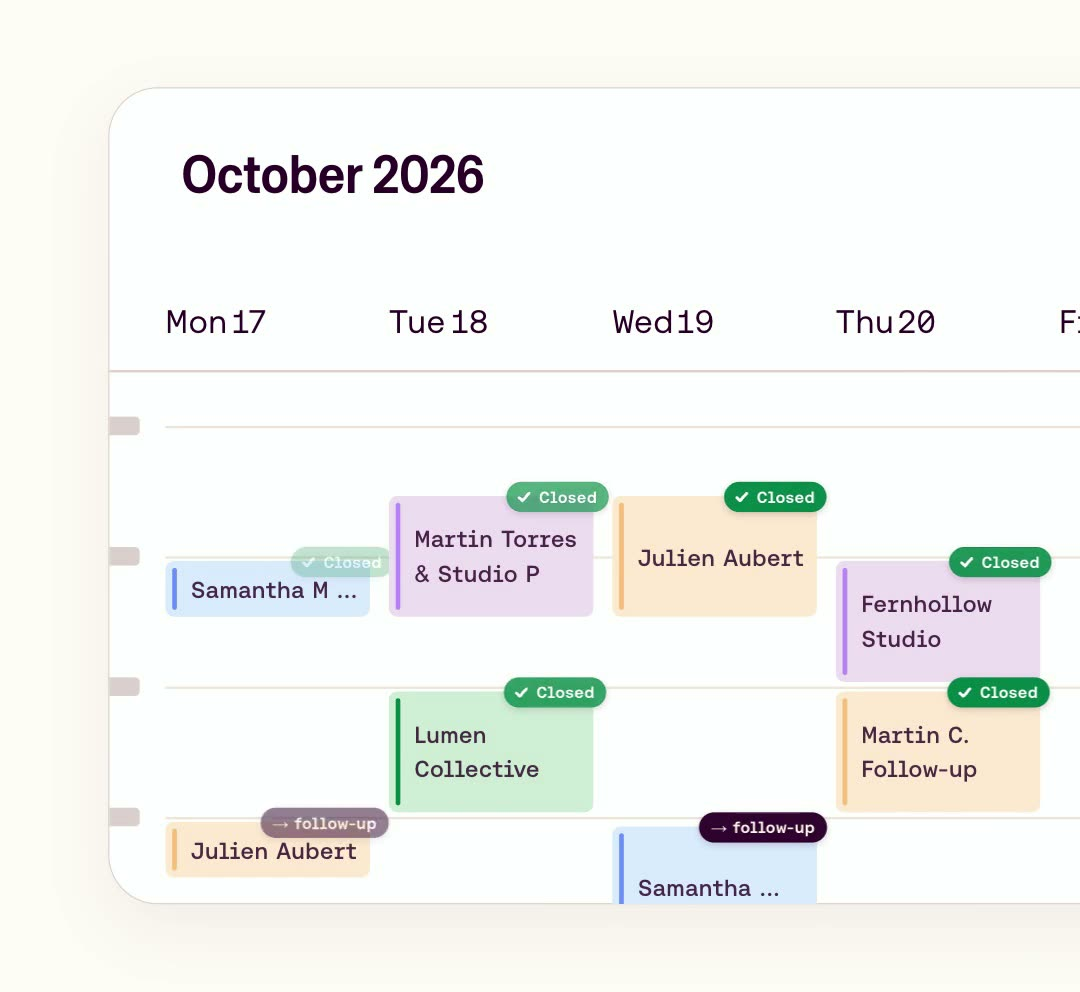
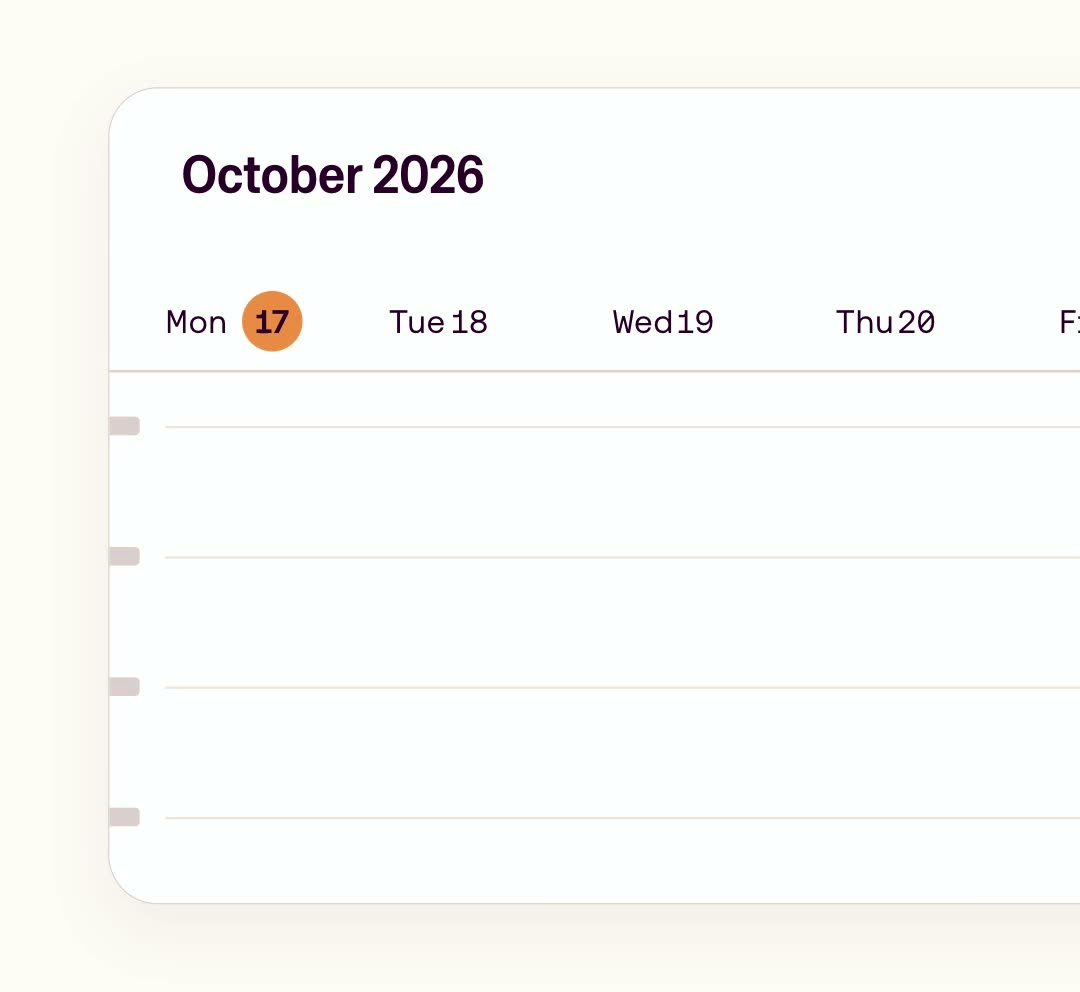
feat(steps): the three animations play once when their card comes into view, then hold their last frame
Founder: 'les animations démarrent quand l'écran est focalisé sur l'animation … l'image statique
demeure à la fin' — the brain, the Agents view, the filled calendar. No loop: the observer (60 %
visible) starts playback, pauses it off-screen before the end, never restarts it after the end.
Posters are the first frames; prefers-reduced-motion shows the final still. No autoplay attribute,
no play glyph, first-gesture retry kept for iOS Low Power Mode.

Changed region(s): [[0.1528, 0.4688, 0.9778, 0.9375], [0.2139, 0.2812, 0.3056, 0.375]]

diff --git a/components/sections/landing-v3/LpLoopVideo.tsx b/components/sections/landing-v3/LpLoopVideo.tsx
@@ -3,43 +3,40 @@
 import { useEffect, useRef } from "react";
 
 /**
- * v3 port of components/sections/landing/LoopVideo.tsx (lp scope — don't import
- * the v2 one, different css namespace). Same three behaviors:
+ * Step animation: plays ONCE, when its card comes into view, and then holds
+ * its last frame as the still (founder 2026-09-02: "les animations démarrent
+ * quand l'écran est focalisé sur l'animation … l'image statique demeure à la
+ * fin" — the brain, the Agents view, the filled calendar). Scrolled away
+ * before the end → paused, resumed on return; once ended it never restarts.
+ *
  * - raw-HTML tag so the `muted` attribute survives SSR (facebook/react#10389);
- * - IntersectionObserver plays it in view and pauses it offscreen (three
- *   1080x1080 loops decoding for the whole visit is real battery on mobile);
- * - prefers-reduced-motion holds it on a still, and a flip of the preference
- *   mid-visit is honored.
+ * - IntersectionObserver at 60 % visibility decides "focused on it";
+ * - prefers-reduced-motion shows the final still (seek to the end, no motion),
+ *   and a flip of the preference mid-visit is honored.
  * The host div is the media card itself (className comes from the caller);
  * the inner video is absolutely positioned so it can never change the card box.
  *
- * Never a play button (founder 2026-09-02, iPhone: "pourquoi les motions ont
- * un bouton play?? pas bien"). In Low Power Mode (and under aggressive
- * thermal mitigation) iOS denies every play() outside a user gesture AND
- * paints its own start-playback glyph — but only on a video carrying the
- * `autoplay` content attribute (HTMLMediaElement::shouldForceControlsDisplay;
- * the ::-webkit-media-controls CSS hides are a no-op on modern iOS). So:
- * no `autoplay` attribute (the observer starts playback anyway), a poster —
- * a "full" frame of the loop, the still the card shows whenever it is not
- * playing — and one retry of play() on the first gesture anywhere, for
- * every denied loop at once: WebKit lifts the restriction per element for
- * good when play() runs inside that gesture, so the observer keeps working
- * afterwards. Playback starts from the poster's own instant, so the still
- * and the motion are one continuous frame.
+ * Never a play button (founder 2026-09-02, iPhone). In Low Power Mode (and
+ * under aggressive thermal mitigation) iOS denies every play() outside a user
+ * gesture AND paints its own start-playback glyph — but only on a video
+ * carrying the `autoplay` content attribute (HTMLMediaElement::
+ * shouldForceControlsDisplay; the ::-webkit-media-controls CSS hides are a
+ * no-op on modern iOS). So: no `autoplay` attribute (the observer starts
+ * playback), a poster = the animation's first frame (the still the card
+ * shows before it starts), and one retry of play() on the first gesture
+ * anywhere for every denied video at once: WebKit lifts the restriction per
+ * element for good when play() runs inside that gesture.
  */
 
-/** every mounted loop → its "play inside a gesture" routine. Once one loop
-    is denied, the first gesture runs it for ALL of them — including the
-    ones still below the fold, which would otherwise be denied in their turn
-    and need a second tap (the restriction is per element). */
-const loops = new Map<HTMLVideoElement, () => void>();
+/** every mounted video → its "play inside a gesture" routine (see header) */
+const videos = new Map<HTMLVideoElement, () => void>();
 let unlockArmed = false;
 // activation-triggering events (scroll is not a gesture)
 const GESTURES = ["touchend", "pointerup", "click", "keydown"] as const;
 const onGesture = () => {
   unlockArmed = false;
   for (const g of GESTURES) document.removeEventListener(g, onGesture, true);
-  loops.forEach((resume) => resume());
+  videos.forEach((resume) => resume());
 };
 const armUnlock = () => {
   if (unlockArmed) return;
@@ -52,15 +49,12 @@ export function LpLoopVideo({
   alt,
   className,
   poster,
-  posterAt = 0,
 }: {
   src: string;
   alt: string;
   className?: string;
-  /** still shown while not playing (see header) */
+  /** the animation's first frame — shown until it starts */
   poster?: string;
-  /** seconds into the loop the poster was taken — playback starts there */
-  posterAt?: number;
 }) {
   const hostRef = useRef<HTMLDivElement>(null);
 
@@ -74,25 +68,28 @@ export function LpLoopVideo({
     video.playsInline = true;
     const motionMq = matchMedia("(prefers-reduced-motion: reduce)");
     let inView = false;
-    let seeked = false;
+    let done = false;
 
-    // one seek to the poster's instant, as soon as the timeline exists
-    const seekToPoster = () => {
-      if (seeked || !(posterAt > 0) || video.readyState < 1) return;
-      seeked = true;
+    // reduced motion: the final still, no motion at all
+    const showEnd = () => {
+      if (video.readyState < 1 || !isFinite(video.duration)) return;
+      video.pause();
       try {
-        video.currentTime = posterAt;
+        video.currentTime = Math.max(0, video.duration - 0.05);
       } catch {
-        /* not seekable yet — the poster still stands */
+        /* not seekable yet — the poster stands */
       }
     };
 
     const sync = () => {
-      if (motionMq.matches || !inView) {
-        video.pause();
+      if (motionMq.matches) {
+        showEnd();
         return;
       }
-      seekToPoster();
+      if (!inView || done) {
+        if (!done) video.pause();
+        return;
+      }
       const p = video.play();
       if (!p) return;
       p.then(
@@ -111,9 +108,8 @@ export function LpLoopVideo({
     };
     // inside a gesture: play() lifts this element's restriction for good;
     // then the observer contract applies (off-screen → paused)
-    loops.set(video, () => {
-      if (motionMq.matches) return;
-      seekToPoster();
+    videos.set(video, () => {
+      if (motionMq.matches || done) return;
       void video.play().then(
         () => {
           host.dataset.lpVideo = "playing";
@@ -122,29 +118,43 @@ export function LpLoopVideo({
         () => {},
       );
     });
+    const onEnded = () => {
+      done = true;
+      host.dataset.lpVideo = "done";
+    };
     const onMotion = () => {
-      if (motionMq.matches && seeked) video.currentTime = posterAt;
+      if (!motionMq.matches && !done) {
+        // preference lifted mid-visit: start over from the beginning if in view
+        try {
+          video.currentTime = 0;
+        } catch {
+          /* noop */
+        }
+      }
       sync();
     };
 
-    video.addEventListener("loadedmetadata", seekToPoster);
-    seekToPoster();
+    video.addEventListener("ended", onEnded);
+    video.addEventListener("loadedmetadata", () => {
+      if (motionMq.matches) showEnd();
+    });
+    if (motionMq.matches) showEnd();
     const io = new IntersectionObserver(
       (entries) => {
         inView = entries.some((e) => e.isIntersecting);
         sync();
       },
-      { threshold: 0.25 },
+      { threshold: 0.6 },
     );
     io.observe(video);
     motionMq.addEventListener("change", onMotion);
     return () => {
       io.disconnect();
-      loops.delete(video);
-      video.removeEventListener("loadedmetadata", seekToPoster);
+      videos.delete(video);
+      video.removeEventListener("ended", onEnded);
       motionMq.removeEventListener("change", onMotion);
     };
-  }, [posterAt]);
+  }, []);
 
   const posterAttr = poster ? ` poster="${poster}"` : "";
   return (
@@ -154,8 +164,8 @@ export function LpLoopVideo({
       role="img"
       aria-label={alt}
       dangerouslySetInnerHTML={{
-        // no `autoplay` — see header; muted stays a content attribute (SSR)
-        __html: `<video class="lp-loop-video" src="${src}"${posterAttr} muted loop playsinline preload="metadata" disablepictureinpicture disableremoteplayback></video>`,
+        // no `autoplay`, no `loop` — see header; muted stays a content attribute (SSR)
+        __html: `<video class="lp-loop-video" src="${src}"${posterAttr} muted playsinline preload="auto" disablepictureinpicture disableremoteplayback></video>`,
       }}
     />
   );

diff --git a/components/sections/landing-v3/LpSteps.tsx b/components/sections/landing-v3/LpSteps.tsx
@@ -17,12 +17,12 @@ type Step = {
       text outlined) — the whole card is the picture. Steps still waiting for
       their approved loop. */
   art?: string;
-  /** Storyboard loop (pancake-studio shorts/<name>, 1080×1080 30fps, seamless,
-      464/426 safe band) — replaces the illustration once the founder approves
-      it. The poster is a "full" frame of the loop; playback starts there. */
+  /** Storyboard animation (pancake-studio shorts/<name>, 1080×992 30fps) —
+      plays once when the card comes into view and holds its last frame
+      (the brain / the Agents view / the filled calendar). The poster is its
+      first frame. */
   video?: string;
   poster?: string;
-  posterAt?: number;
   /** What the illustration shows — its text is outlined in the SVG, so this
       is the only copy a screen reader gets. */
   alt: string;
@@ -35,7 +35,6 @@ const STEPS: Step[] = [
     body: "Pancake turns your website into a living plan.\nWho buys from you, what to say to them, and where to show up. Always up to date.",
     video: "/how/brain-research-loop.mp4",
     poster: "/how/brain-research-loop-poster.jpg",
-    posterAt: 13.3,
     alt: "Animation: a website address is typed and researched; from the Studio Pelican node a knowledge graph blooms — purple, green, pink, orange and blue branches — then a market profile fills in: Company, Offering, Ideal clients.",
   },
   {
@@ -44,7 +43,6 @@ const STEPS: Step[] = [
     body: "Pancake reaches out to the people ready to buy and gets you found on Google and ChatGPT.",
     video: "/how/pipeline-checklist-loop.mp4",
     poster: "/how/pipeline-checklist-loop-poster.jpg",
-    posterAt: 9.5,
     alt: "Animation: the Pipeline agent (24 warm leads) opens its checklist by itself and works through it — monitor buying signals, find people ready to buy, enrich every prospect, score leads for ICP fit, write outreach in your voice, follow-up automatically — each item loading, then ticked.",
   },
   {
@@ -53,7 +51,6 @@ const STEPS: Step[] = [
     body: "Pancake handles the follow-up and keeps every warm conversation moving until a qualified meeting lands on your calendar.",
     video: "/how/meetings-calendar-loop.mp4",
     poster: "/how/meetings-calendar-loop-poster.jpg",
-    posterAt: 11.8,
     alt: "Animation: a calendar week in October 2026 fills up day by day with booked meetings — Samantha M., Julien Aubert, Martin Torres and Studio P, Lumen Collective, Fernhollow Studio, a Martin C. follow-up — past meetings marked closed or follow-up as the days go by.",
   },
 ];
@@ -80,7 +77,6 @@ export function LpSteps() {
                   className="lp-steps__media"
                   src={step.video}
                   poster={step.poster}
-                  posterAt={step.posterAt}
                   alt={step.alt}
                 />
               ) : (
